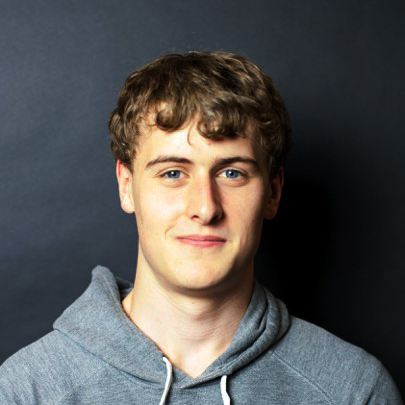
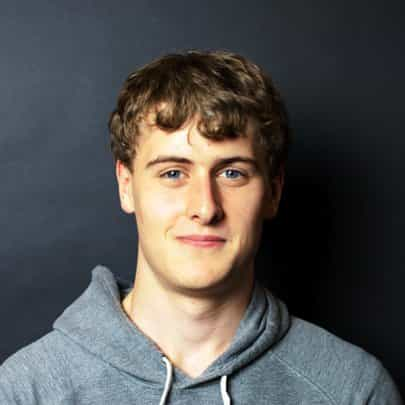
Compress Image Assets

diff --git a/src/App.vue b/src/App.vue
@@ -24,7 +24,7 @@ export default {
   data: function() {
     return {
       name: "Daniel Braithwaite",
-      photo: "../../static/profile-photo.jpg",
[1 lines of base64/hex data omitted]
       social: [
         {
           name: 'Github',
